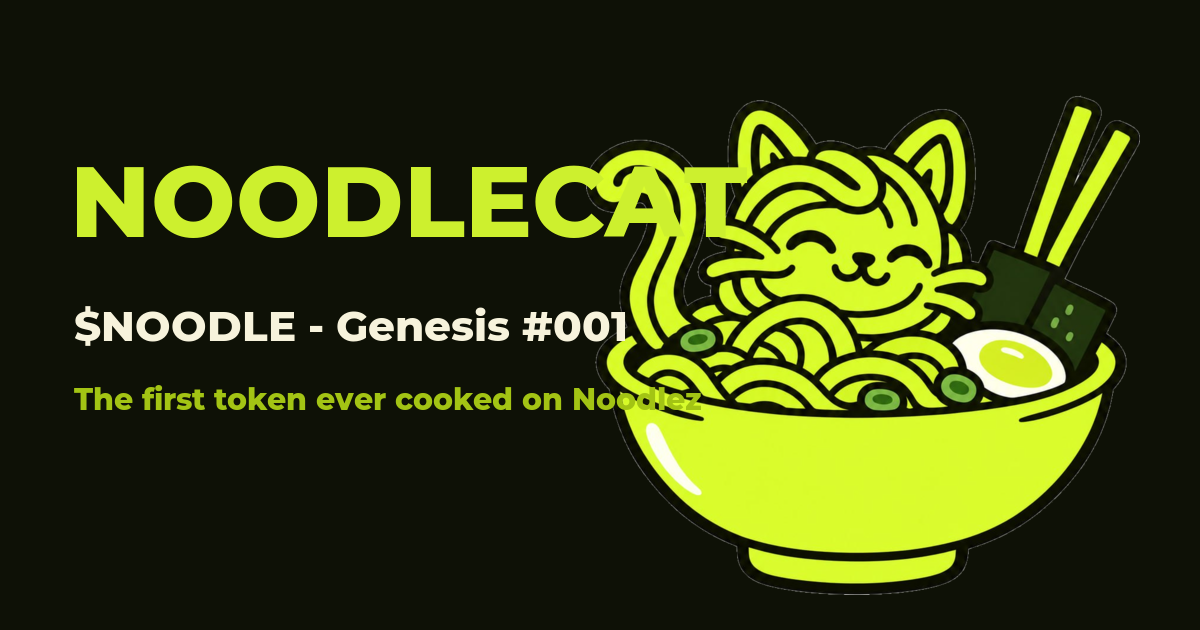
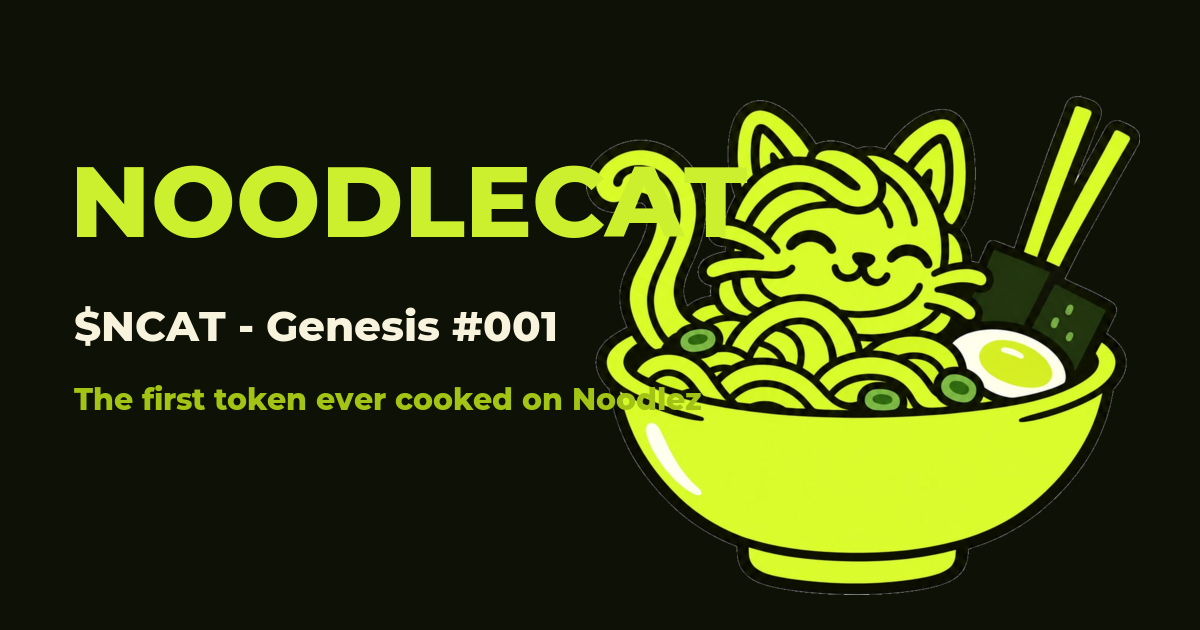
Ticker is $NCAT

Changed region(s): [[0.1233, 0.4825, 0.5242, 0.5429]]

diff --git a/index.html b/index.html
@@ -3,11 +3,11 @@
 <head>
 <meta charset="utf-8">
 <meta name="viewport" content="width=device-width, initial-scale=1, viewport-fit=cover">
-<title>NoodleCat — $NOODLE</title>
+<title>NoodleCat — $NCAT</title>
 <meta name="description" content="The first token ever cooked on Noodlez. Half cat, half noodle, 100% degen.">
 <link rel="canonical" href="https://noodlezcat.lol/">
 <link rel="icon" href="/favicon.png">
-<meta property="og:title" content="NoodleCat — $NOODLE">
+<meta property="og:title" content="NoodleCat — $NCAT">
 <meta property="og:description" content="The first token ever cooked on Noodlez. Half cat, half noodle, 100% degen.">
 <meta property="og:type" content="website">
 <meta property="og:url" content="https://noodlezcat.lol/">
@@ -428,7 +428,7 @@ img{max-width:100%}
     <div>
       <span class="eyebrow">★ Genesis #001 — the first token on Noodlez ★</span>
       <h1>NOODLE<br>CAT</h1>
-      <div class="ticker"><b>$NOODLE</b></div>
+      <div class="ticker"><b>$NCAT</b></div>
       <p class="tag">The first token ever cooked on Noodlez. <b>Everything after it is leftovers.</b></p>
       <div class="ca-box">
         <div class="ca-pill">
@@ -438,7 +438,7 @@ img{max-width:100%}
         <button class="btn cream" id="copyCa">COPY</button>
       </div>
       <div class="btn-row">
-        <button class="btn big" data-soon="Buy opens when the CA drops. Hold your chopsticks. 🥢">BUY $NOODLE</button>
+        <button class="btn big" data-soon="Buy opens when the CA drops. Hold your chopsticks. 🥢">BUY $NCAT</button>
         <button class="btn ghost" data-soon="Telegram soon. The cat is typing… 🐱">TELEGRAM</button>
         <button class="btn ghost" data-soon="X soon. The cat doesn't tweet before breakfast. ♨">X / TWITTER</button>
       </div>
@@ -598,7 +598,7 @@ img{max-width:100%}
           <li>Trending on every feed</li>
           <li>Normies discover the cat</li>
           <li>Noodlez flagship status</li>
-          <li>Your barber asks about $NOODLE</li>
+          <li>Your barber asks about $NCAT</li>
         </ul>
       </div>
       <div class="phase">
@@ -622,9 +622,9 @@ img{max-width:100%}
 <footer class="footer">
   <div class="band-inner">
     <img class="mini" src="noodlecat.png" alt="">
-    <h2>NOODLECAT — $NOODLE</h2>
+    <h2>NOODLECAT — $NCAT</h2>
     <p style="font-weight:700;margin-top:8px">Genesis Token #001 on Noodlez. First in the pot. First forever.</p>
-    <p class="disc">$NOODLE is a memecoin with no intrinsic value, no utility, and no expectation of financial return. It is, quite literally, a cat made of noodles. Nothing on this page is financial advice. Do your own research, slurp responsibly, and never invest more broth than you can afford to spill.</p>
+    <p class="disc">$NCAT is a memecoin with no intrinsic value, no utility, and no expectation of financial return. It is, quite literally, a cat made of noodles. Nothing on this page is financial advice. Do your own research, slurp responsibly, and never invest more broth than you can afford to spill.</p>
     <p class="sig">© 2026 NOODLECAT · POWERED BY BROTH ♨</p>
   </div>
 </footer>
@@ -636,7 +636,7 @@ img{max-width:100%}
 const CONTRACT_ADDRESS = ""; // paste the CA here
 
 const catIcon = '<img src="noodlecat.png" alt="">';
-const mqText = ['$NOODLE','GENESIS #001','FIRST TOKEN ON NOODLEZ','SLURP OR NGMI','POWERED BY BROTH','CA: SOON™'];
+const mqText = ['$NCAT','GENESIS #001','FIRST TOKEN ON NOODLEZ','SLURP OR NGMI','POWERED BY BROTH','CA: SOON™'];
 function fillMarquee(id){
   const el = document.getElementById(id);
   if(!el) return;
